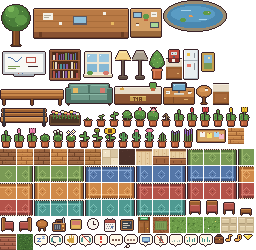
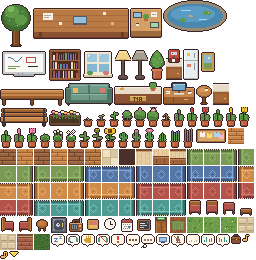
A safe in the Lobby that opens the vault
Clicking the safe (by reception) opens https://vault13.t1a.cloud/ in a new tab; in the Mac app
that goes to the system browser like every other link.

- shared/map.ts: a `link` object use (label + url). `safe` is one of a kind: admins can move it,
  not remove or add another.
- gen-map.mjs / gen-assets.mjs: the safe at 13,14 and its sprite.
- App.tsx: a link object opens straight from the click (no wheel), through the same
  always-a-new-tab path the Meet links use.
- world.ts: a saved layout from before this release gets the new one-of-a-kind objects at
  their generated spots on load, when that spot is still free, so rearranged offices get the
  safe too. The server ignores `use` on link objects.

diff --git a/server/src/world.ts b/server/src/world.ts
@@ -1,6 +1,6 @@
 import { randomUUID } from 'node:crypto';
 import {
-  applyEdit, applyLayout, besideObject, dirBetween, hallDistance, layoutProblem, voiceRooms, findPath, isWalkable, pathDuration, pathTo, roomAt, sampleMove, seatAt, withLayout, WALK_MS_PER_TILE,
+  applyEdit, applyLayout, besideObject, dirBetween, hallDistance, KEEP_TYPES, layoutProblem, objectName, voiceRooms, findPath, isWalkable, pathDuration, pathTo, roomAt, sampleMove, seatAt, withLayout, WALK_MS_PER_TILE,
   type Dir, type Layout, type Room, type Spot, type TileMap, type Tile,
 } from '../../shared/map';
 import {
@@ -284,7 +284,7 @@ export class World {
   /** Walk over to an object and use it: take something from it, or flip it on/off. */
   use(u: User, objectId: string, itemId?: string) {
     const o = this.map.objects.find(o => o.id === objectId);
-    if (!o?.use || o.use.kind === 'calendar' || o.use.kind === 'meetings' || o.use.kind === 'achievements' || goingOut(u) || u.instance) return;
+    if (!o?.use || o.use.kind === 'calendar' || o.use.kind === 'meetings' || o.use.kind === 'achievements' || o.use.kind === 'link' || goingOut(u) || u.instance) return;
     const item = o.use.kind === 'take' ? o.use.items.find(i => i.id === itemId) ?? o.use.items[0] : null;
     this.setFollowing(u, null);
     clearTimeout(this.errands.get(u.id));
@@ -656,6 +656,19 @@ export class World {
     if (typeof next === 'string') return this.sendTo(u.id, { t: 'notice', text: `Can't: ${next}` });
     this.setLayout(next, u, edit.op === 'add' || edit.op === 'rug_add' ? added : undefined);
   }
+  /** A saved layout plus any one-of-a-kind object a newer build added to the floor (a release puts a safe in the
+   *  Lobby; an office rearranged before that still gets one), at its generated spot when that's still free. */
+  private withNewFixtures(saved: Layout): Layout {
+    const out = { objects: [...saved.objects], rugs: saved.rugs };
+    for (const o of this.baseLayout.objects) {
+      if (!KEEP_TYPES.has(o.type) || out.objects.some(s => s.type === o.type)) continue;
+      const next = { ...out, objects: [...out.objects, structuredClone(o)] };
+      const problem = layoutProblem(withLayout(this.map, next));
+      if (problem) console.warn(`new ${objectName(o.type)} not added to the saved layout: ${problem}`);
+      else out.objects = next.objects;
+    }
+    return out;
+  }
   resetLayout(u: User) { if (this.isAdmin(u) && this.setLayout(structuredClone(this.baseLayout), u)) this.layoutEdited = false; }
   /** Check the whole floor, then put it in place for everyone: home desks go along with their chair, toggles
    *  get their state, and anyone the new furniture lands on (or whose way it blocks) steps aside. */
@@ -921,10 +934,11 @@ export class World {
   }
   load(data: ReturnType<World['dump']>) {
     if (data.layout) { // an admin rearranged the office; if it no longer fits the generated floor, start over from that
-      const problem = layoutProblem(withLayout(this.map, data.layout));
+      const layout = this.withNewFixtures(data.layout);
+      const problem = layoutProblem(withLayout(this.map, layout));
       if (problem) console.warn(`saved layout dropped: ${problem}`);
       else {
-        applyLayout(this.map, data.layout); this.layoutEdited = true;
+        applyLayout(this.map, layout); this.layoutEdited = true;
         this.syncToggles();
       }
     }

diff --git a/client/src/App.tsx b/client/src/App.tsx
@@ -143,6 +143,7 @@ function Office({ session, onLogout, onExpired }: { session: string; onLogout: (
       if (use?.kind === 'calendar') { setPick(null); return store.openCalendar(); }
       if (use?.kind === 'meetings') { setPick(null); return store.openMeetings(); }
       if (use?.kind === 'achievements') { setPick(null); return store.openAchievements(); }
+      if (use?.kind === 'link') { setPick(null); return openExternal(use.url); }
       setPick(cur => (p && cur?.kind === p.kind && cur.id === p.id ? null : p)); // same target again: close
     };
     e.onZoom = () => tick(n => n + 1);
@@ -711,18 +712,17 @@ function MacAppButton() {
   );
 }
 
-/** Always opens in a new tab — never replaces the office (some shells ignore target=_blank). */
+/** Always opens in a new tab — never replaces the office (some shells ignore target=_blank; the Mac app hands it to the browser). */
+function openExternal(href: string) {
+  const w = window.open(href, '_blank');
+  if (w) w.opener = null;
+  else { // popup blocked: fall back to a real new-tab anchor click
+    const a = document.createElement('a');
+    a.href = href; a.target = '_blank'; a.rel = 'noopener noreferrer'; a.click();
+  }
+}
 function ExternalLink({ href, onOpen, children }: { href: string; onOpen?: () => void; children: React.ReactNode }) {
-  const open = (e: React.MouseEvent) => {
-    e.preventDefault();
-    const w = window.open(href, '_blank');
-    if (w) w.opener = null;
-    else { // popup blocked: fall back to a real new-tab anchor click
-      const a = document.createElement('a');
-      a.href = href; a.target = '_blank'; a.rel = 'noopener noreferrer'; a.click();
-    }
-    onOpen?.();
-  };
+  const open = (e: React.MouseEvent) => { e.preventDefault(); openExternal(href); onOpen?.(); };
   return <a href={href} target="_blank" rel="noopener noreferrer" onClick={open}>{children}</a>;
 }
 
@@ -930,7 +930,7 @@ function ActionWheel({ store, engine, pick, onPerson, onClose }: { store: Store;
     }
   } else {
     const o = MAP.objects.find(o => o.id === pick.id);
-    if (!o?.use || o.use.kind === 'calendar' || o.use.kind === 'meetings' || o.use.kind === 'achievements') return null;
+    if (!o?.use || o.use.kind === 'calendar' || o.use.kind === 'meetings' || o.use.kind === 'achievements' || o.use.kind === 'link') return null;
     if (o.use.kind === 'toggle') {
       const on = store.objects[o.id]?.on ?? o.on ?? true;
       title = o.use.label[0].toUpperCase() + o.use.label.slice(1);

diff --git a/server/src/world.test.ts b/server/src/world.test.ts
@@ -237,6 +237,19 @@ test('radio is always on without a shared knob; lamp toggles still broadcast and
   const restored = new World(map); restored.load(saved);
   const after = restored.snapshot() as Extract<ServerMsg, { t: 'state' }>; assert.deepEqual(after.objects[lamp.id], { on: !before.objects[lamp.id].on });
 });
+test('a saved layout from before the safe gets one at its generated spot; a blocked spot is skipped', t => {
+  const { w } = setup(t), safe = map.objects.find(o => o.type === 'safe')!;
+  const without = { objects: map.objects.filter(o => o.type !== 'safe'), rugs: map.rugs };
+  const restored = new World(structuredClone(map)); restored.load({ ...w.dump(), layout: structuredClone(without) });
+  const added = restored.map.objects.find(o => o.type === 'safe')!;
+  assert.ok(added); assert.deepEqual([added.x, added.y, added.use], [safe.x, safe.y, safe.use]);
+  // something already stands where the safe would go: the rest of the layout still loads, without a safe
+  const plant = without.objects.find(o => o.type === 'plant')!;
+  const blocked = { ...without, objects: without.objects.map(o => (o.id === plant.id ? { ...o, x: safe.x, y: safe.y } : o)) };
+  const other = new World(structuredClone(map)); other.load({ ...w.dump(), layout: structuredClone(blocked) });
+  assert.equal(other.map.objects.some(o => o.type === 'safe'), false);
+  assert.deepEqual(other.map.objects.find(o => o.id === plant.id)!.x, safe.x);
+});
 test('a pot on first login; a status a day grows it, blooms earn badges, a week without one kills it', t => {
   const { w, add, tick } = setup(t), a = add('A'), DAY = 86_400_000, stage = () => a.u.plant?.stage;
   assert.equal(stage(), 0); assert.ok(a.u.plant?.kind); // planted on connect

diff --git a/shared/map.ts b/shared/map.ts
@@ -22,7 +22,8 @@ export interface UseItem { id: string; label: string; icon: string }
 /** What clicking an object offers: take something from it, flip it on/off, or look at your calendar on it. */
 export type ObjectUse = { kind: 'take'; items: UseItem[] } | { kind: 'toggle'; label: string } | { kind: 'calendar'; label: string }
   | { kind: 'meetings'; label: string } // the board by the Meeting room: which calendar meetings are on
-  | { kind: 'achievements'; label: string }; // the Lobby notice board: your plant and your badges
+  | { kind: 'achievements'; label: string } // the Lobby notice board: your plant and your badges
+  | { kind: 'link'; label: string; url: string }; // opens a page in a new tab (the safe: the vault)
 export interface MapObject {
   id: string; type: string; x: number; y: number; w: number; h: number;
   sound?: { clip: string; gain: number };
@@ -309,7 +310,7 @@ export const objectName = (type: string) => ({ table_long: 'long table', table_b
   painting_small: 'small painting', coffee_machine: 'coffee machine', meetings_board: 'meetings board', noticeboard: 'notice board', exit_door: 'exit door' } as Record<string, string>)[type] ?? type.replace(/_/g, ' ');
 
 /** Types that are one of a kind (the way out, the coffee machine…): they can be moved but not removed. */
-export const KEEP_TYPES = new Set(['exit_door', 'coffee_machine', 'fridge', 'radio', 'meetings_board', 'noticeboard']);
+export const KEEP_TYPES = new Set(['exit_door', 'coffee_machine', 'fridge', 'radio', 'meetings_board', 'noticeboard', 'safe']);
 /** Types that stay exactly where they are. */
 export const FIXED_TYPES = new Set(['exit_door']);
 export const RUG_MIN = 2, RUG_MAX = 24;

diff --git a/client/src/engine.ts b/client/src/engine.ts
@@ -711,7 +711,7 @@ export class Engine {
     else if (this.hoverObject && !this.selected) {
       const o = this.hoverObject, fr = this.f(o.type)!;
       const what = o.sound ? 'Radio · music volume in ⚙' : o.use?.kind === 'toggle' ? `${o.use.label[0].toUpperCase()}${o.use.label.slice(1)} · ${this.isOn(o) ? 'on' : 'off'}`
-        : o.use?.kind === 'calendar' ? 'Calendar · your week' : o.use?.kind === 'achievements' ? 'Notice board · your plant and achievements' : o.use?.kind === 'meetings' ? `Meetings · ${this.store.meetingRooms.length || 'none'} on now` : o.sit ? `${o.type === 'bench' ? 'Bench' : 'Sofa'} · click to sit` : o.type === 'coffee_machine' ? 'Coffee machine' : o.type === 'fridge' ? 'Fridge' : o.type;
+        : o.use?.kind === 'calendar' ? 'Calendar · your week' : o.use?.kind === 'achievements' ? 'Notice board · your plant and achievements' : o.use?.kind === 'link' ? `Safe · opens the ${o.use.label}` : o.use?.kind === 'meetings' ? `Meetings · ${this.store.meetingRooms.length || 'none'} on now` : o.sit ? `${o.type === 'bench' ? 'Bench' : 'Sofa'} · click to sit` : o.type === 'coffee_machine' ? 'Coffee machine' : o.type === 'fridge' ? 'Fridge' : o.type;
       this.drawLabel(what, (o.x + o.w / 2) * TS, (o.y + o.h) * TS - fr.h + 4, camX, camY);
     }
     else if (this.hoverPlant) {
